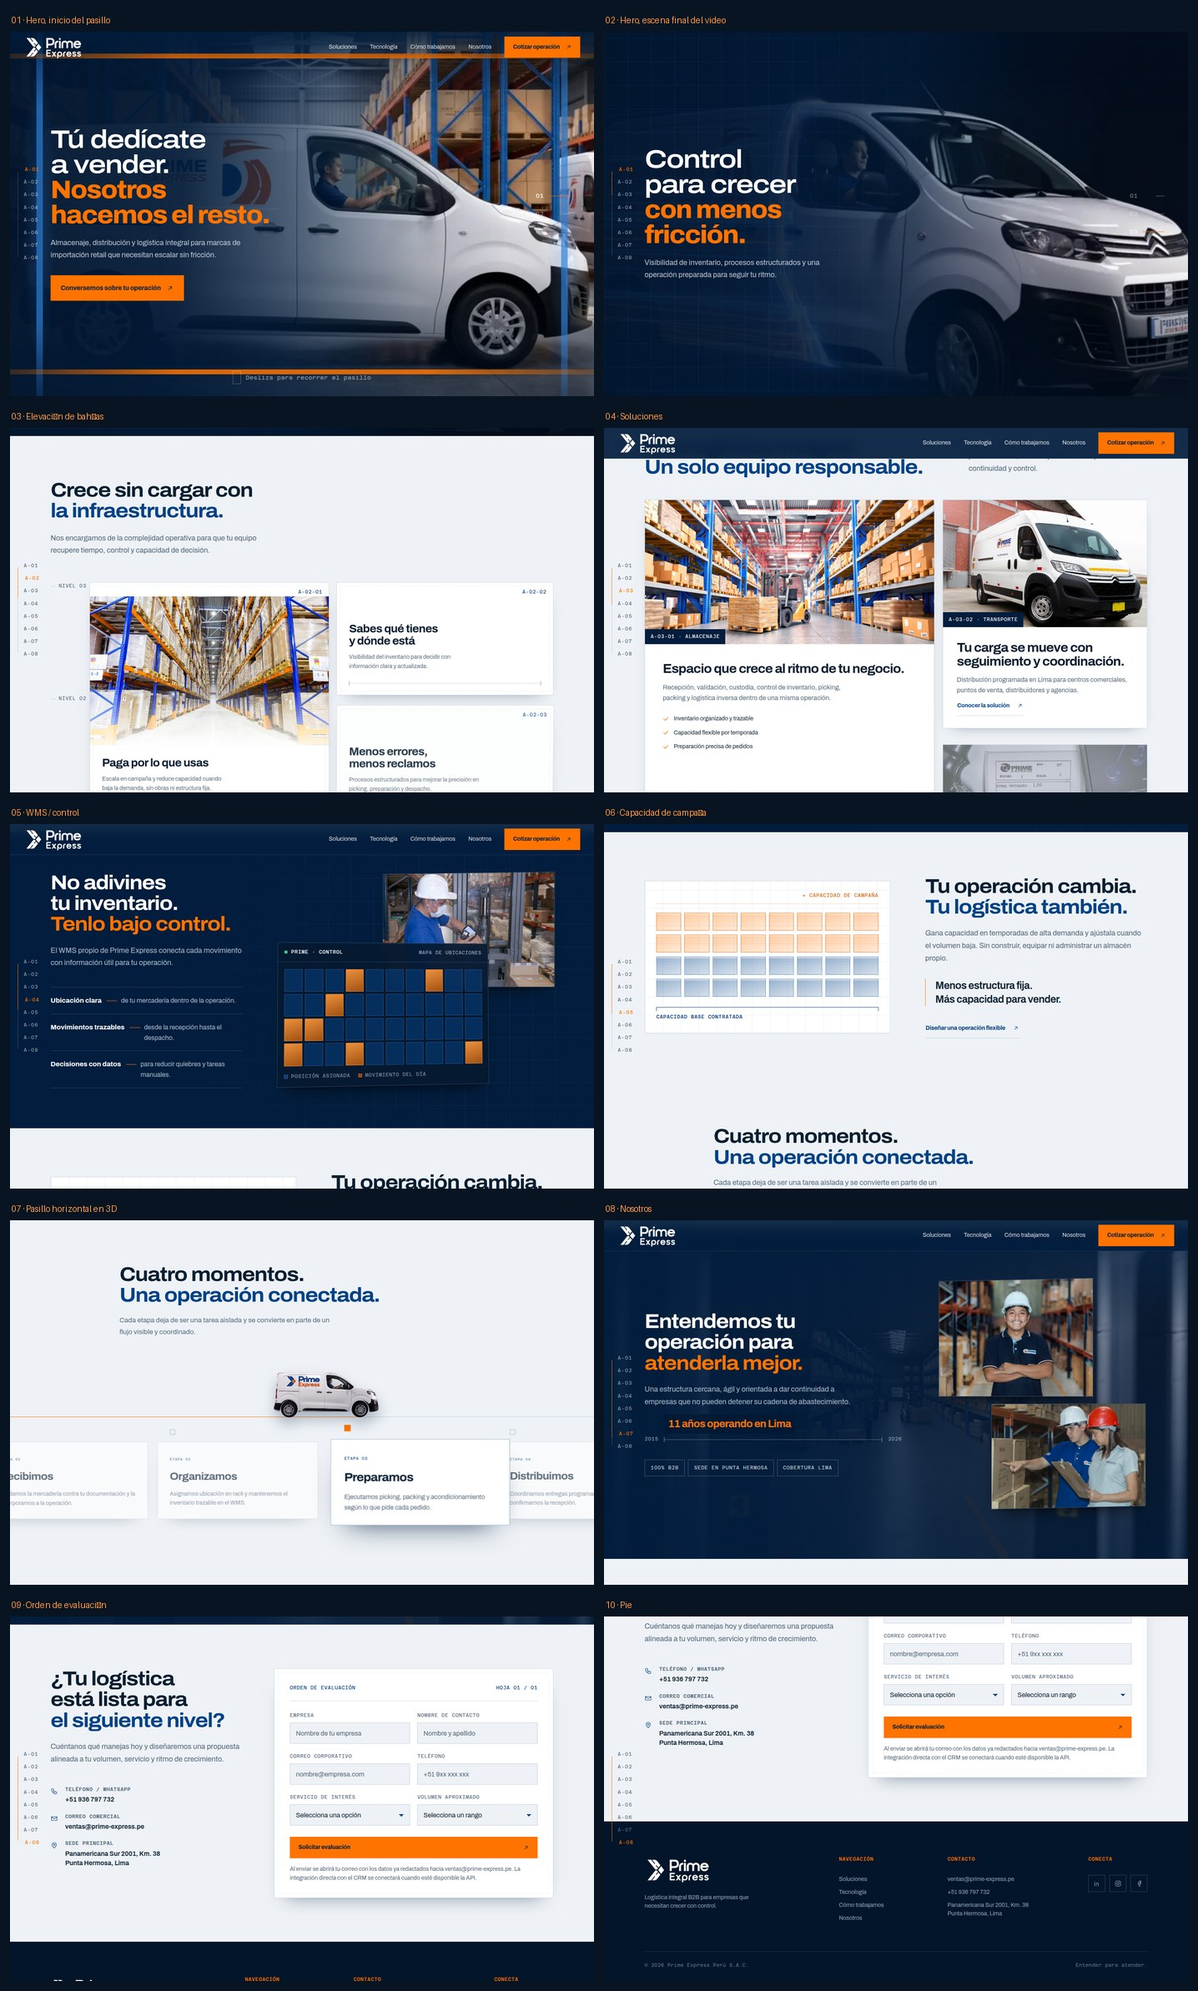
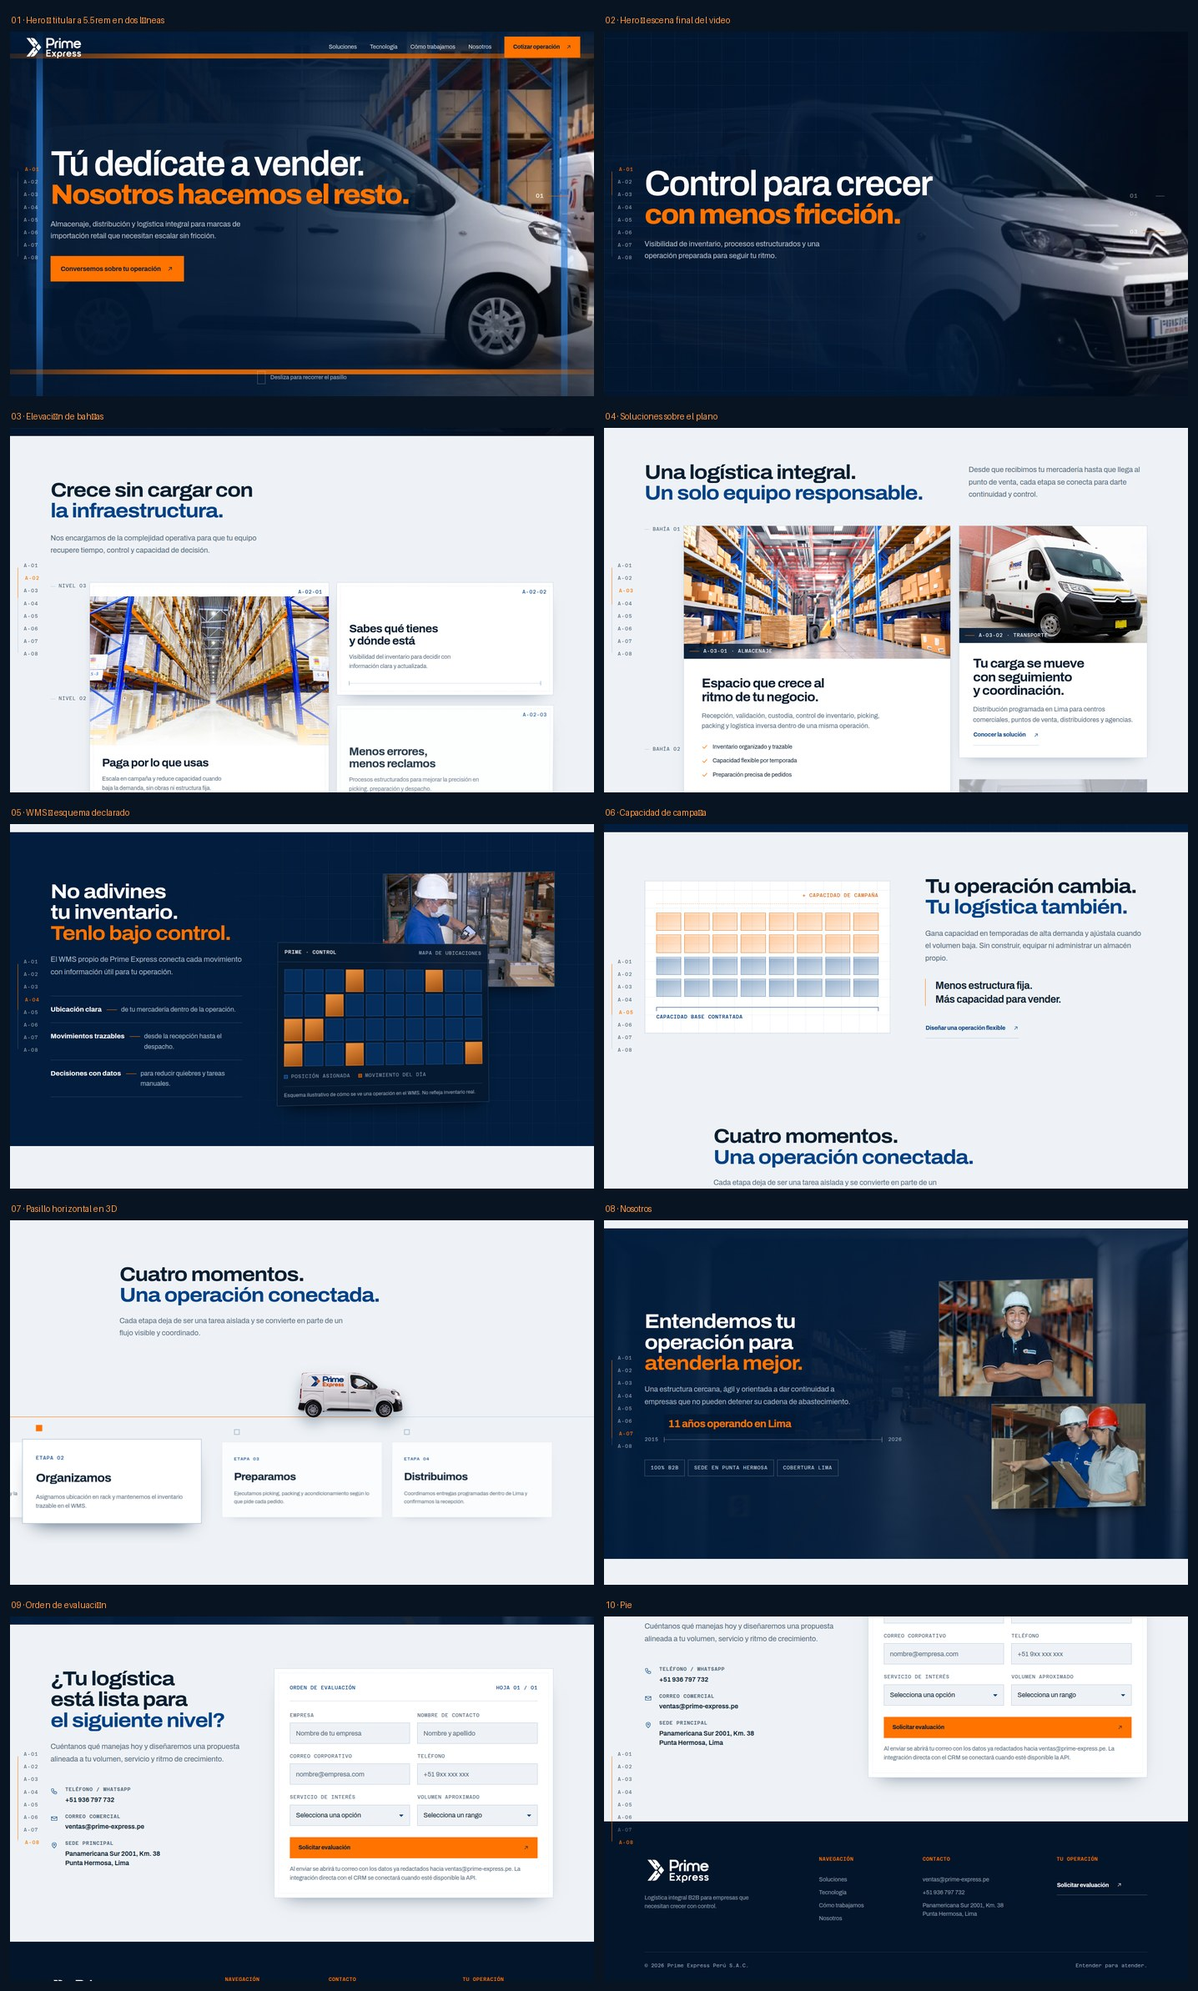
Registra DESIGN.md y su sidecar desde el sitio construido
Documenta el sistema tal como quedó, no como se planeó: dos fondos (hoja
#eef2f6 y pasillo #021d3d), azul que dibuja y naranja que señala, radio cero
en todo el sistema, monoespaciado restringido a medidas, profundidad por
perspectiva y no por sombra de color.

Incluye también las tres notas menores del veredicto (la indicación de scroll
sale del mono, comentarios corregidos, ritmo vertical del pasillo móvil) y las
hojas de contacto del render final en docs/preview/.

diff --git a/prime-express-v4/css/main.css b/prime-express-v4/css/main.css
@@ -377,7 +377,9 @@ figure { margin: 0; }
 .aisle-meter span.is-on { color: #fff; }
 .aisle-meter span.is-on i { transform: scaleX(1); background: var(--orange); }
 .aisle-cue {
-  text-transform: none; letter-spacing: .04em;
+  font-family: "Archivo", "Segoe UI", system-ui, sans-serif;
+  font-size: .875rem; font-weight: 500;
+  text-transform: none; letter-spacing: 0;
   position: absolute; z-index: 9; bottom: 30px; left: 50%;
   display: flex; align-items: center; gap: 12px;
   color: rgba(255, 255, 255, .58); transform: translateX(-50%);
@@ -931,11 +933,11 @@ figure { margin: 0; }
   .racks-floor { left: 0; bottom: 20px; }
   .wms-grid { grid-template-columns: repeat(8, 1fr); }
   .corridor { height: 380vh; }
-  .corridor-stage { min-height: 620px; padding-top: 72px; }
-  .corridor-floor { bottom: 58%; }
-  .corridor-van { bottom: calc(58% - 10px); }
-  .corridor-track { bottom: 3%; height: 54%; }
-  /* la altura del track vive solo aquí; no volver a declararla más abajo */
+  .corridor-stage { min-height: 560px; padding-top: 72px; padding-bottom: 0; }
+  .corridor-floor { bottom: 42%; }
+  .corridor-van { bottom: calc(42% - 10px); }
+  /* única altura del track en la ruta animada; la de movimiento reducido es aparte */
+  .corridor-track { bottom: 4%; height: 40%; }
   .corridor-head .lede { display: none; }
   .corridor-head { gap: 14px; }
   .stages { gap: 16px; padding: 30px 18px 0; }

diff --git a/prime-express-v4/js/main.js b/prime-express-v4/js/main.js
@@ -301,7 +301,7 @@
       const steps = Math.max(stages.length - 1, 1);
       const step = travel * steps;
       const index = Math.min(Math.floor(step), steps - 1);
-      /* el barrido ocupa solo el 14% central de cada paso: casi cualquier posición
+      /* el barrido ocupa solo el 9% central de cada paso: casi cualquier posición
          sostenida deja una etapa encuadrada */
       const local = smoothstep(clamp((step - index - 0.455) / 0.09));
       const center = stageCenters[index] + (stageCenters[index + 1] - stageCenters[index]) * local;

diff --git a/DESIGN.md b/DESIGN.md
@@ -1,0 +1,257 @@
+---
+name: Prime Express
+description: El plano de elevación de racks convertido en interfaz — una página que se recorre como un pasillo de almacén.
+colors:
+  plan-white: "#eef2f6"
+  paper: "#ffffff"
+  rack-blue: "#034287"
+  rack-blue-deep: "#022f61"
+  beam-blue: "#2f7fd6"
+  aisle-navy: "#021d3d"
+  aisle-navy-deep: "#03152b"
+  signal-orange: "#ff7300"
+  signal-orange-print: "#d96200"
+  ink: "#0b1f33"
+  annotation-grey: "#566a7d"
+  rule-blue: "rgba(3, 66, 135, .2)"
+  rule-blue-soft: "rgba(3, 66, 135, .1)"
+  on-navy: "rgba(214, 228, 243, .78)"
+typography:
+  display:
+    fontFamily: "Archivo, 'Segoe UI', system-ui, sans-serif"
+    fontSize: "clamp(2.4rem, 6.2vw, 5.5rem)"
+    fontWeight: 800
+    lineHeight: 0.98
+    letterSpacing: "-0.04em"
+    fontVariation: "'wdth' 104"
+  headline:
+    fontFamily: "Archivo, 'Segoe UI', system-ui, sans-serif"
+    fontSize: "clamp(2.05rem, 3.5vw, 3.4rem)"
+    fontWeight: 700
+    lineHeight: 1.02
+    letterSpacing: "-0.035em"
+    fontVariation: "'wdth' 108"
+  title:
+    fontFamily: "Archivo, 'Segoe UI', system-ui, sans-serif"
+    fontSize: "clamp(1.5rem, 2.2vw, 2.15rem)"
+    fontWeight: 700
+    lineHeight: 1.06
+    letterSpacing: "-0.035em"
+    fontVariation: "'wdth' 104"
+  lede:
+    fontFamily: "Archivo, 'Segoe UI', system-ui, sans-serif"
+    fontSize: "1.125rem"
+    fontWeight: 400
+    lineHeight: 1.7
+    letterSpacing: "normal"
+  body:
+    fontFamily: "Archivo, 'Segoe UI', system-ui, sans-serif"
+    fontSize: "1rem"
+    fontWeight: 400
+    lineHeight: 1.6
+    letterSpacing: "normal"
+  label:
+    fontFamily: "'Azeret Mono', ui-monospace, monospace"
+    fontSize: "0.875rem"
+    fontWeight: 400
+    lineHeight: 1.4
+    letterSpacing: "0.06em"
+    fontFeature: "tabular-nums"
+rounded:
+  all: "0"
+spacing:
+  xs: "8px"
+  sm: "14px"
+  md: "20px"
+  lg: "34px"
+  xl: "44px"
+  section: "clamp(88px, 11vh, 148px)"
+  section-stacked: "clamp(64px, 7vh, 104px)"
+components:
+  button-primary:
+    backgroundColor: "{colors.signal-orange}"
+    textColor: "{colors.aisle-navy}"
+    rounded: "{rounded.all}"
+    padding: "14px 20px"
+  button-primary-hover:
+    backgroundColor: "#ffa14d"
+    textColor: "{colors.aisle-navy}"
+  button-rule:
+    backgroundColor: "transparent"
+    textColor: "{colors.rack-blue}"
+    rounded: "{rounded.all}"
+    padding: "13px 0"
+  button-rule-hover:
+    textColor: "{colors.signal-orange-print}"
+  bay:
+    backgroundColor: "{colors.paper}"
+    textColor: "{colors.ink}"
+    rounded: "{rounded.all}"
+    padding: "30px"
+  field:
+    backgroundColor: "{colors.plan-white}"
+    textColor: "{colors.ink}"
+    rounded: "{rounded.all}"
+    padding: "0 14px"
+    height: "52px"
+  field-focus:
+    backgroundColor: "{colors.paper}"
+    textColor: "{colors.ink}"
+  cota:
+    backgroundColor: "{colors.aisle-navy}"
+    textColor: "#ffffff"
+    typography: "{typography.label}"
+    rounded: "{rounded.all}"
+    padding: "9px 16px 9px 14px"
+---
+
+# Design System: Prime Express
+
+## Overview
+
+**Creative North Star: "El plano de elevación de racks"**
+
+El sistema toma prestado el lenguaje del dibujo técnico con el que un almacén se proyecta y se direcciona: elevaciones de rack, líneas de cota con topes, hatching de piso, coordenadas de bahía. No es una decoración "técnica" encima de una web corporativa: la página entera está montada sobre ese sistema de coordenadas y se recorre como un pasillo, con las ocho secciones numeradas A-01 a A-08 en un rail fijo. Lo que en un plano es una anotación, aquí es navegación; lo que en un plano es una cota, aquí es la etiqueta de una fotografía.
+
+La página alterna dos estados físicos, no dos temas: la **hoja de plano** (blanco frío #eef2f6, líneas azules, todo medido) y el **pasillo filmado** (navy #021d3d, material propio a sangre completa). El azul dibuja; el naranja solo marca la posición activa y la acción. El material fotográfico y fílmico es del cliente y se muestra sin estilizar: el sistema lo enmarca, no lo interpreta.
+
+La densidad es alta en las hojas de plano y baja en los tramos filmados, y esa alternancia es el ritmo del scroll: un tramo cargado se paga con uno oscuro y silencioso. El rechazo explícito del mundo es el hero de dashboard sobre degradado navy y el tríptico de tarjetas con ícono que envía toda la categoría logística.
+
+**Key Characteristics:**
+- Ninguna esquina redondeada en todo el sistema: un plano no tiene radios.
+- Naranja reservado: posición activa y acción, nunca decoración.
+- Toda anotación monoespaciada es una medida, una coordenada o un conteo.
+- La profundidad se construye con perspectiva real (`translateZ`), no con sombras de colores.
+- Cada región movida por scroll tiene una ruta equivalente sin movimiento.
+
+## Colors
+
+Paleta comprometida: dos fondos que se alternan a escala de página (hoja y pasillo), un azul que dibuja y un naranja que señala.
+
+### Primary
+- **Rack Blue** (#034287): el color del dibujo. Líneas de cota, reglas de nivel, hatching, códigos de bahía, enlaces con regla, bordes de campo enfocado, pulgar de la barra de scroll. Es el color con el que el sistema piensa.
+- **Signal Orange** (#ff7300): posición activa (etapa en foco, bahía de campaña, coordenada actual del rail) y acción (botón sólido, marca de selección, cursor de texto, anillo de foco). Nunca como fondo decorativo ni como degradado.
+
+### Secondary
+- **Aisle Navy** (#021d3d): el pasillo. Fondo de todos los tramos filmados (hero, tecnología, nosotros) y de la barra superior. También es el color del texto sobre el naranja.
+- **Beam Blue** (#2f7fd6): solo la luz del marco de bahía sobre el video del hero y las líneas del plano sobre navy. No es un color de UI.
+
+### Tertiary
+- **Signal Orange Print** (#d96200): la única variante del naranja, para texto naranja sobre fondo claro donde #ff7300 no alcanza contraste.
+
+### Neutral
+- **Plan White** (#eef2f6): fondo de todas las hojas de plano y de los campos de formulario en reposo.
+- **Paper** (#ffffff): las superficies que se apoyan sobre la hoja — bahías, racks, tarjetas de etapa, la orden de evaluación.
+- **Ink** (#0b1f33): texto principal sobre claro.
+- **Annotation Grey** (#566a7d): párrafos secundarios, cotas y etiquetas sobre claro. Medido: 4.97:1 sobre #eef2f6 y 5.59:1 sobre blanco.
+- **On Navy** (rgba(214,228,243,.78)): texto secundario sobre los tramos oscuros. Es un azul desaturado del propio navy, nunca un gris neutro.
+- **Rule Blue** (rgba(3,66,135,.2)) y **Rule Blue Soft** (rgba(3,66,135,.1)): todas las líneas del dibujo — bordes, cotas, retículas, marcos punteados.
+
+### Named Rules
+**The Signal Rule.** El naranja marca dónde está el visitante y qué puede hacer. Si un elemento naranja no es la posición activa ni una acción, está mal pintado.
+
+**The Two Grounds Rule.** La página solo tiene dos fondos: hoja (#eef2f6) y pasillo (#021d3d). Una sección nueva elige uno de los dos; no se inventa un tercer fondo ni un degradado entre ambos.
+
+**The Drawn Line Rule.** Toda línea es azul a 1px, y las que miden llevan topes (`::before` / `::after` de 1px por 9–13px). Una línea sin tope es un borde; una con topes es una cota y afirma una medida.
+
+## Typography
+
+**Display Font:** Archivo variable (wght 400–800, wdth 75–125), self-hosted en `fonts/archivo-latin.woff2` y `fonts/archivo-latin-ext.woff2`
+**Body Font:** Archivo, la misma familia en su corte normal
+**Label/Mono Font:** Azeret Mono variable (wght 400–600), self-hosted en `fonts/azeret-mono-latin.woff2`
+
+**Character:** Archivo es una grotesca industrial de ancho variable: el eje `wdth` se usa como recurso de composición, no como decoración — 100 para los enunciados que deben caber en una línea, 104–108 para titulares de sección. Azeret Mono aporta el registro de anotación de plano: cifras tabulares, mayúsculas, tracking abierto.
+
+### Hierarchy
+- **Display** (800, `clamp(2.4rem, 6.2vw, 5.5rem)`, lh 0.98, ls −0.04em, `wdth` 104): solo el titular del hero. El enunciado va en blanco y la respuesta en naranja a `.78em`, un escalón deliberado entre afirmación y respuesta.
+- **Headline** (700, `clamp(2.05rem, 3.5vw, 3.4rem)`, lh 1.02, ls −0.035em, `wdth` 108): el titular de cada sección. Su segunda línea va en azul sobre claro y en naranja sobre oscuro.
+- **Title** (700, `clamp(1.5rem, 2.2vw, 2.15rem)`, lh 1.06, `wdth` 104): títulos de bahía, rack y etapa.
+- **Lede** (400, 1.125rem, lh 1.7, máx. 56ch): el párrafo que sigue al titular de sección.
+- **Body** (400, 16px, lh 1.6): párrafos de tarjeta y listas.
+- **Label** (Azeret Mono 400, 0.875rem, ls 0.06em, mayúsculas, cifras tabulares): coordenadas (A-03-01), niveles, cotas, conteos, cabecera de la orden de evaluación.
+
+### Named Rules
+**The Measurement Rule.** El monoespaciado es para coordenadas, cotas, niveles y conteos. Una instrucción, una frase o una etiqueta de navegación en mono es un disfraz técnico y no pertenece al sistema.
+
+**The No Eyebrow Rule.** Ninguna sección lleva un rótulo pequeño encima del titular. El titular carga solo; las anotaciones de coordenada viven en el margen del dibujo o en el rail, nunca sobre el encabezado.
+
+**The Statement and Answer Rule.** Los titulares se escriben en dos registros: enunciado y respuesta, la segunda diferenciada por color y —en el hero— por un escalón de tamaño.
+
+## Layout
+
+Contenedor único: `--shell: min(1240px, 100% - 200px)`. La calle de 100px a cada lado no es aire: aloja el rail de coordenadas fijo, que vive fuera del contenedor y nunca se superpone al contenido.
+
+Las hojas de plano llevan `padding: clamp(88px, 11vh, 148px) 0`, y una hoja que sigue a otra reduce su borde superior a `clamp(64px, 7vh, 104px)`. Cada `[id]` lleva `scroll-margin-top: 92px` para que ninguna ancla quede bajo la barra fija de 76px.
+
+Los dibujos de elevación (A-02 y A-03) llevan `padding-left: 96px` para la regla de niveles o bahías, con la línea de piso alineada a esa misma sangría. Las retículas del plano se dibujan con `repeating-linear-gradient` a 44px, 54px o 58px según la escala de la sección.
+
+Dos cortes: **1180px** retira el rail y colapsa los pares de columnas a una; **860px** cambia el hero de pantalla completa a banda de video con el texto debajo, oculta la regla de niveles, convierte la navegación en cajón lateral y baja el hero al set de imágenes de 800px. La ruta de `prefers-reduced-motion` es un tercer estado de layout completo, no una desactivación: alturas automáticas, escenas apiladas, pasillo horizontal convertido en lista vertical.
+
+## Elevation & Depth
+
+Sistema híbrido y deliberado: **la profundidad real la da la perspectiva, no la sombra.** Los contenedores con `perspective` (1200–1600px) y los hijos con `translateZ` construyen el pasillo, el marco de bahía que se abre, las placas inclinadas del WMS y las tarjetas de etapa que pasan en profundidad. Las sombras solo apoyan esa lectura.
+
+### Shadow Vocabulary
+- **Plate** (`--shadow-plate: 0 26px 48px -28px rgba(2,29,61,.55), 0 4px 12px -6px rgba(2,29,61,.3)`): placas fotográficas y superficies levantadas sobre la hoja de plano.
+- **Dark** (`--shadow-dark: 0 24px 40px -24px rgba(0,0,0,.78), 0 6px 12px -8px rgba(0,0,0,.5)`): las mismas placas cuando se apoyan sobre el pasillo navy. Sombra negra, nunca teñida.
+- **Rest** (`0 12px 30px -26px rgba(2,29,61,.5)`): tarjeta de etapa en reposo, al fondo del pasillo.
+- **Active** (`0 26px 44px -28px rgba(2,29,61,.8)`): tarjeta de etapa encuadrada.
+
+### Named Rules
+**The Offset Rule.** Toda sombra tiene desplazamiento vertical y desenfoque. Un halo de color sin desplazamiento no es profundidad, es decoración.
+
+**The Dark Ground Rule.** Sobre navy, las sombras son negras. Una sombra navy sobre fondo navy no separa nada.
+
+## Shapes
+
+**Radio cero en todo el sistema.** No hay una sola esquina redondeada: ni botones, ni tarjetas, ni campos, ni la barra de scroll (que se declara explícitamente en `0`). Un plano no tiene radios, y esa es la firma silenciosa del mundo.
+
+El vocabulario de forma es de líneas y marcos: borde continuo de 1px azul translúcido para las superficies; marco punteado interior a 8–10px dentro de las bahías y de la orden de evaluación, como el doble filete de una hoja de dibujo; líneas de cota con topes; hatching diagonal a 115° para el piso; retículas ortogonales para el fondo. Las fotografías son placas rectangulares con su cota anclada abajo a la izquierda: un tope naranja de 24px, la coordenada y el nombre del servicio, sobre un plato navy que se desvanece hacia la derecha.
+
+## Components
+
+### Buttons
+- **Shape:** rectángulo puro (radio 0), borde de 1px transparente para que el hover no desplace.
+- **Primary:** fondo Signal Orange con texto Aisle Navy (5.2:1 medido — el texto blanco sobre naranja no alcanzaría), `padding: 14px 20px`, ícono SVG a la derecha. Hover: fondo #ffa14d y el ícono se desplaza 3px en diagonal. Active: `translateY(1px)`.
+- **Rule (secundario):** sin fondo, texto Rack Blue sobre una regla inferior de 1px; el hover cambia la regla a naranja. Sobre navy el texto es blanco y la regla `rgba(255,255,255,.25)`.
+- **Focus:** anillo naranja de 2px con `outline-offset: 3px`, igual en toda la página.
+
+### Cards / Containers
+- **Bahía** (A-02): fondo Paper, borde 1px Rule Blue, marco punteado interior a 8px, coordenada en la esquina superior derecha, y una cota de ancho completo al pie. La bahía alta se carga con una fotografía a sangre de sus costados.
+- **Rack** (A-03): la misma anatomía con la placa fotográfica arriba y el cuerpo debajo; hover y focus-within levantan la pieza `26px` en Z con la sombra creciendo en consecuencia.
+- **Etapa** (A-06): en reposo, fondo `rgba(255,255,255,.74)` y `translateZ(-120px)`; encuadrada, fondo blanco, `translateZ(30px)` y borde azul al 42%. **El texto nunca se atenúa: se atenúa el marco.**
+
+### Inputs / Fields
+- **Style:** alto 52px, fondo Plan White, borde 1px Rule Blue, radio 0. La etiqueta va arriba en Azeret Mono.
+- **Focus:** el fondo pasa a blanco, el borde a Rack Blue y aparece un subrayado interior naranja de 2px (`inset 0 -2px 0`).
+- **Error:** borde y subrayado en #c0341a, más un mensaje que nombra qué falta y cómo resolverlo.
+- **Select:** flecha dibujada con dos degradados a 45°/135°, sin ícono de sistema.
+
+### Navigation
+- **Barra superior:** fija, 76px, degradado navy a transparente; al pasar 90px de scroll se ancla en `rgba(2,29,61,.93)` con desenfoque; se retira al bajar y vuelve al subir.
+- **Rail de coordenadas:** fijo al borde izquierdo, ocho coordenadas A-01…A-08 con una línea de progreso; la activa pasa a naranja y se desplaza 3px. Es decorativo para lectores de pantalla (`aria-hidden` y anclas fuera del orden de tabulación) porque duplica destinos que la navegación ya ofrece; se retira durante el pasillo horizontal para no chocar con las tarjetas.
+- **Cajón móvil:** panel navy desde la derecha con las coordenadas a la izquierda de cada destino.
+
+### Signature Component — el pasillo
+Dos piezas comparten la misma idea y la misma gramática:
+- **A-01, el pasillo filmado:** secuencia de 200 fotogramas WebP del video propio dibujada en `<canvas>` y avanzada por el scroll, dentro de un marco de bahía (dos montantes y dos travesaños iluminados) que se abre en profundidad conforme se avanza. Tres escenas de texto se relevan sobre él y un contador marca en cuál va el visitante.
+- **A-06, el pasillo horizontal:** cuatro etapas que pasan en profundidad mientras la unidad recorre la línea de piso. El recorrido se mide sobre las tarjetas y descansa con una encuadrada; la etapa activa se elige por cuánta superficie de ella se ve, no por la posición del scroll.
+
+## Do's and Don'ts
+
+### Do:
+- **Do** elegir uno de los dos fondos del sistema para cada sección nueva: hoja #eef2f6 o pasillo #021d3d.
+- **Do** anclar toda anotación monoespaciada a algo medible: una coordenada, un nivel, una cota, un conteo.
+- **Do** construir profundidad con `perspective` y `translateZ`, y dejar que la sombra apoye.
+- **Do** dar a cada región movida por scroll una ruta equivalente bajo `prefers-reduced-motion`, con el contenido visible por defecto.
+- **Do** declarar cuando un elemento es un esquema ilustrativo, como hace el mapa del WMS.
+- **Do** usar texto navy sobre el naranja; el blanco sobre #ff7300 no alcanza 4.5:1.
+
+### Don't:
+- **Don't** redondear esquinas. El sistema no tiene un solo radio.
+- **Don't** usar naranja para nada que no sea la posición activa o una acción.
+- **Don't** poner un rótulo pequeño encima de un titular.
+- **Don't** atenuar texto para expresar profundidad: se atenúa el marco.
+- **Don't** usar glifos unicode como íconos; el sistema tiene símbolos SVG propios de trazo 1.6 con terminaciones cuadradas.
+- **Don't** teñir de navy una sombra que cae sobre navy.
+- **Don't** poner instrucciones o navegación en Azeret Mono.
